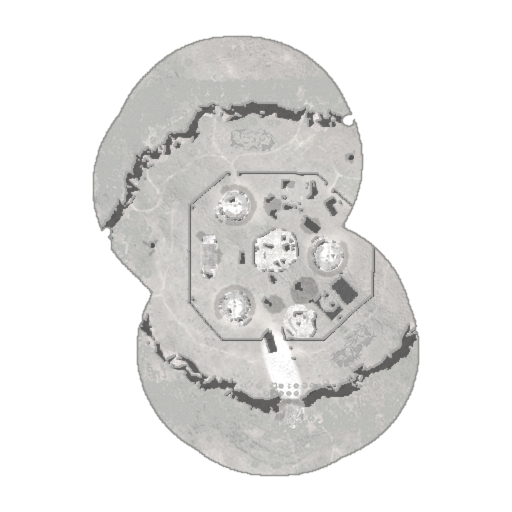
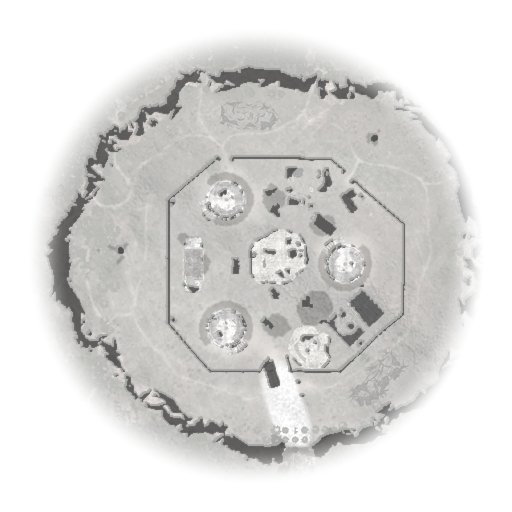
Training Camp minimap: the whole ground framed on the crater, fading out
The minimap was cut 45 m around the TDM spawns (render_minimap.py's default
for ground with no edge): two circles, a figure-8. The owner's pick: all the
ground, framed on the crater wall + 15 m (size 79.709, posX 18.685,
posY 6.53, 3.21 px/m), faded to nothing inside the Tab map's 460 px, so
neither the Tab map nor the corner minimap shows an edge. Rendered with
resource-porter fix/training-camp-minimap (render_minimap.py --frame-outline
training-arena.tsv); within 1 px of the collision.

ui_images.py writes the movie trees' bitmaps/ as the build reads them now,
and --loading is optional.

diff --git a/srp-026g/scripts/stalker-maps/ui_images.py b/srp-026g/scripts/stalker-maps/ui_images.py
@@ -2,43 +2,32 @@
 """A ported map's pictures in the movies built from source: its HUD minimap
 (srp-026g/flash/hud) and its loading picture (srp-026g/flash/lobby_menu).
 
-    ui_images.py KEY --minimap MINIMAP.png --loading PICTURE
+    ui_images.py KEY --minimap MINIMAP.png [--loading PICTURE]
 
 KEY is the map's project_name (the HUD minimap key, e.g. cs_mp_rembasa).
 MINIMAP.png is resource-porter's tools/playable-map-pack/render_minimap.py
 output (512 x 512 RGBA, the 0.26 HUD's style); its <KEY>.json beside it gives
-the frame (size, posX, posY), written into Minimap.as by hand once. PICTURE
-is cut to the lobby's 1920 x 798 (its middle band, scaled to cover).
+the frame (size, posX, posY), written into Minimap.as's _minimapProps by hand.
+Training Camp's is framed on its crater wall:
 
-Writes images/minimap_<KEY>.{jpg,alpha} and images/Level_<KEY>.{jpg,alpha}
-(colour premultiplied by alpha as JPEG, alpha as one zlib byte a pixel:
-flash_tree.py's DefineBitsJPEG3, as the game's own minimaps) and names them in each movie.json's "images".
+    render_minimap.py --map 212 --frame-outline srp-026g/scripts/stalker-maps/training-arena.tsv
+
+PICTURE is cut to the lobby's 1920 x 798 (its middle band, scaled to cover).
+
+Writes hud/bitmaps/minimap_<KEY>.png (the render as it is, a lossless bitmap)
+and lobby_menu/bitmaps/Level_<KEY>.jpg (a baseline JPEG), the bitmaps the
+build adds bound to the classes of the same name in each movie's src/
+(tools/actionscript/flash_tree.py).
 """
 import argparse
 import json
 from pathlib import Path
-import zlib
+import shutil
 
 from PIL import Image
 
 FLASH = Path(__file__).resolve().parents[2] / 'flash'
 LOADING = (1920, 798)
-
-
-def write(movie, cls, image):
-    folder = FLASH / movie / 'images'
-    folder.mkdir(exist_ok=True)
-    alpha = image.getchannel('A') if image.mode == 'RGBA' else Image.new('L', image.size, 255)
-    # Premultiplied, baseline, no chroma subsampling: as the game's own minimaps.
-    rgb = Image.composite(image.convert('RGB'), Image.new('RGB', image.size), alpha) if image.mode == 'RGBA' else image.convert('RGB')
-    rgb.save(folder / f'{cls}.jpg', 'JPEG', quality=92, subsampling=0)
-    (folder / f'{cls}.alpha').write_bytes(zlib.compress(alpha.tobytes(), 9))
-    spec_path = FLASH / movie / 'movie.json'
-    spec = json.loads(spec_path.read_text())
-    spec.setdefault('images', {})[cls] = f'images/{cls}'
-    spec['images'] = dict(sorted(spec['images'].items()))
-    spec_path.write_text(json.dumps(spec, indent=2) + '\n')
-    print(f'{movie}: {cls} {image.size}')
 
 
 def cover(image, size):
@@ -49,17 +38,28 @@ def cover(image, size):
     return image.crop((left, top, left + w, top + h))
 
 
+def bitmap(movie, cls, suffix):
+    if not (FLASH / movie / 'src' / f'{cls}.as').exists():
+        raise SystemExit(f'{movie}: no class src/{cls}.as to bind the bitmap to')
+    return FLASH / movie / 'bitmaps' / f'{cls}{suffix}'
+
+
 def main():
     ap = argparse.ArgumentParser(description=__doc__, formatter_class=argparse.RawDescriptionHelpFormatter)
     ap.add_argument('key')
     ap.add_argument('--minimap', type=Path, required=True)
-    ap.add_argument('--loading', type=Path, required=True)
+    ap.add_argument('--loading', type=Path)
     a = ap.parse_args()
-    minimap = Image.open(a.minimap).convert('RGBA')
-    if minimap.size != (512, 512):
-        raise SystemExit(f'{a.minimap}: {minimap.size}, not 512 x 512')
-    write('hud', f'minimap_{a.key}', minimap)
-    write('lobby_menu', f'Level_{a.key}', cover(Image.open(a.loading).convert('RGB'), LOADING))
+    minimap = Image.open(a.minimap)
+    if minimap.mode != 'RGBA' or minimap.size != (512, 512):
+        raise SystemExit(f'{a.minimap}: {minimap.mode} {minimap.size}, not 512 x 512 RGBA')
+    out = bitmap('hud', f'minimap_{a.key}', '.png')
+    shutil.copyfile(a.minimap, out)
+    print(f'hud: {out.name}')
+    if a.loading:
+        out = bitmap('lobby_menu', f'Level_{a.key}', '.jpg')
+        cover(Image.open(a.loading).convert('RGB'), LOADING).save(out, 'JPEG', quality=92, subsampling=0)
+        print(f'lobby_menu: {out.name}')
     props = json.loads(a.minimap.with_suffix('.json').read_text())
     print(f"Minimap.as: _minimapProps.{a.key} = size {props['size']}, posX {props['posX']}, posY {props['posY']}")
 

diff --git a/srp-026g/docs/notes/stalker-maps.md b/srp-026g/docs/notes/stalker-maps.md
@@ -232,10 +232,16 @@ The spawns do not come from the level: they are the planner's.
   tables, their room tiles (`RENDER_ONE`), their loading pictures
   (`LobbyMenu._load_images` 30-35, classes `Level_<project>`).
 - `srp-026g/flash/hud`: their minimaps (`Minimap._levels`, `_minimapProps`,
-  classes `minimap_<project>`).
-- `tools/actionscript`: a tree's `movie.json` may add bitmaps the original movie
-  lacks (`"images"`: a DefineBitsJPEG3 per class, premultiplied JPEG and zlib
-  alpha, bound by a new SymbolClass); `srp-026g/scripts/stalker-maps/ui_images.py`
+  classes `minimap_<project>`). Training Camp's ground runs to the level's
+  edge (400 x 400 m), so the renderer's default cut it 45 m around the TDM
+  spawns (a figure-8). Its minimap is framed on the crater wall + 15 m and
+  shows all the ground there, fading out inside the Tab map's 460 px
+  (the owner's pick, 2026-11-13): `render_minimap.py --map 212
+  --frame-outline srp-026g/scripts/stalker-maps/training-arena.tsv`
+  (resource-porter `fix/training-camp-minimap`). Repair Depot's south edge has
+  the same 45 m circles; it is not played.
+- `tools/actionscript` adds a bitmap the original movie lacks from the tree's
+  `bitmaps/<class>.png` (lossless) or `.jpg`; `srp-026g/scripts/stalker-maps/ui_images.py`
   writes them from the porter's minimap render and a loading picture.
 - Loading pictures and room tiles: Training Camp and Repair Depot use the
   earlier package's in-game shots. Experimental Pool uses the `poolside-se`
